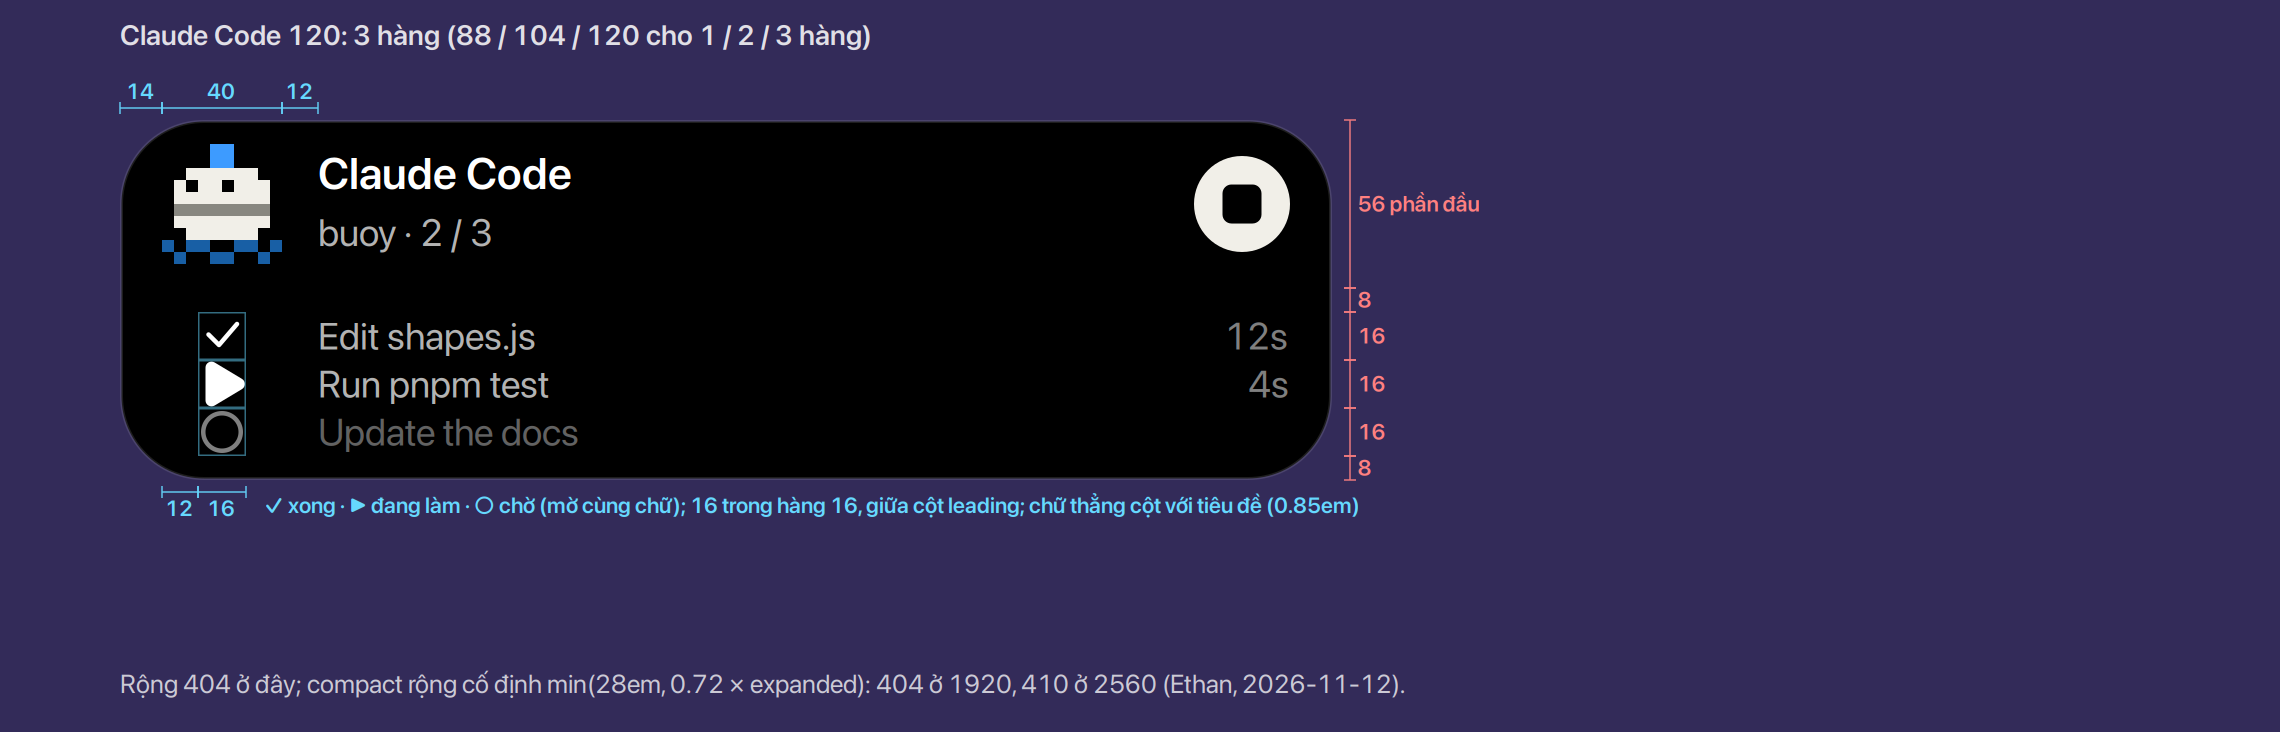
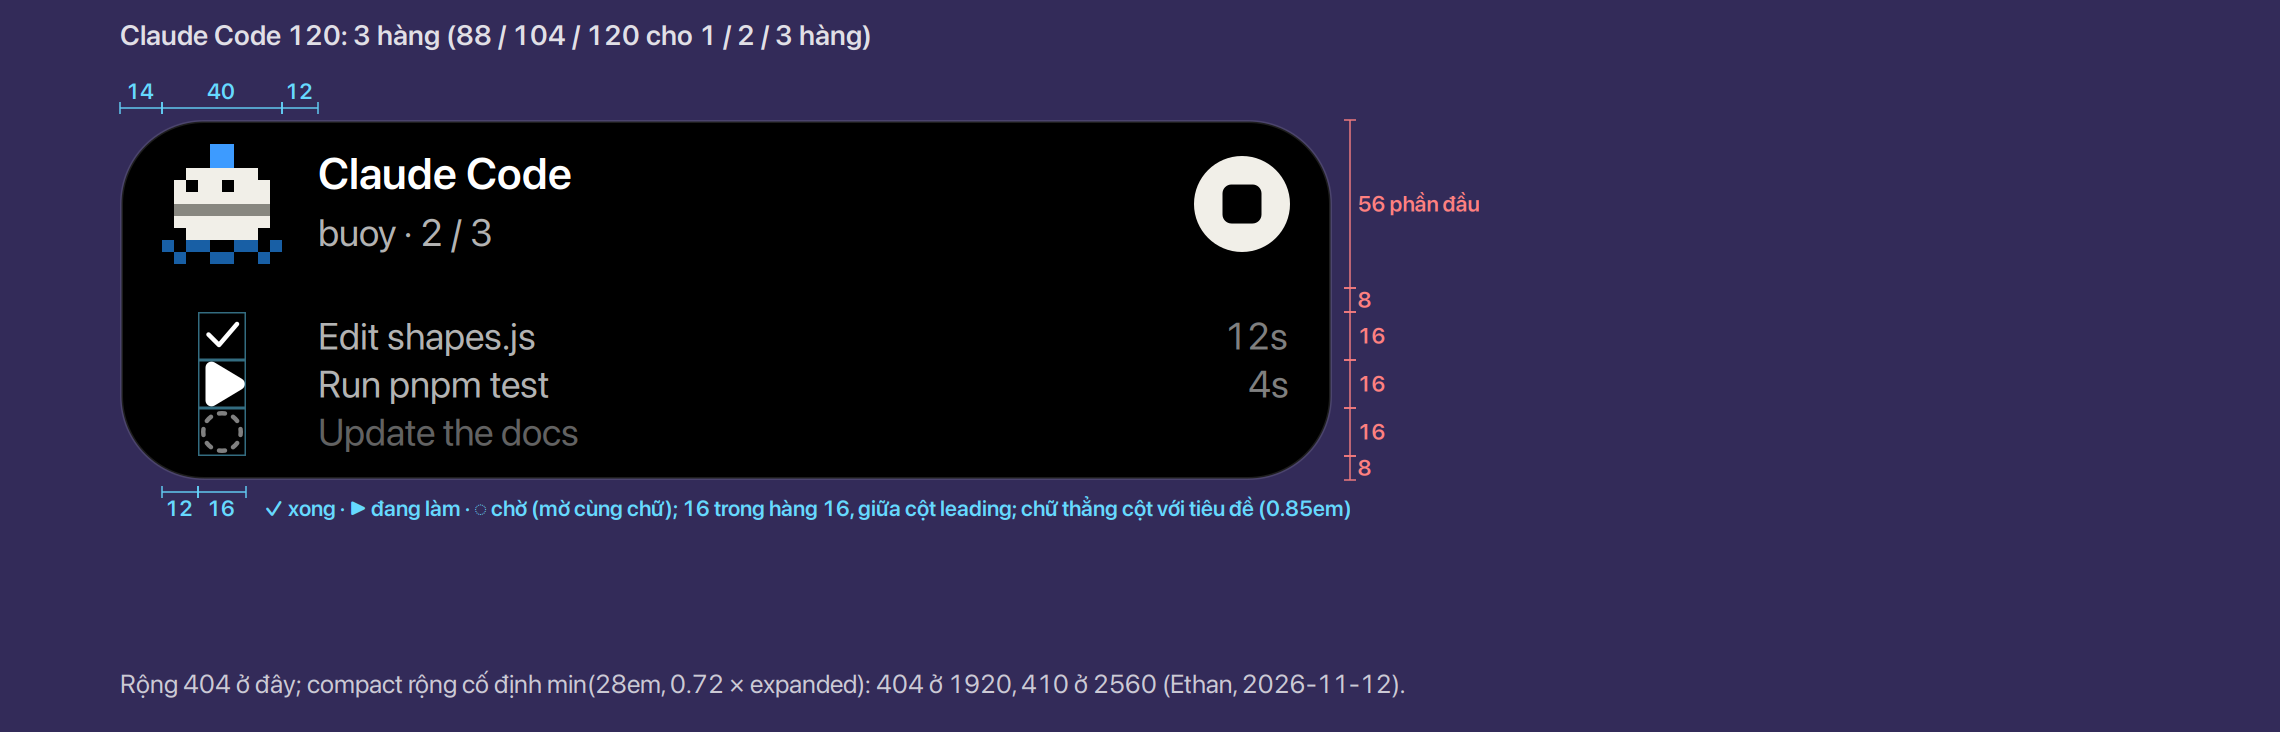
feat(agent): a task to do is Gravity's circle-dashed
Claude Code's pending task row shows Gravity UI's circle-dashed instead of circle
(Ethan, 2026-11-12); task-todo-symbolic.svg is redrawn from it, the design pages
(icons, compact) and the images that show the rows follow.

Refs: FEATURES.md M4 "Symbolic icons from Gravity UI"

Changed region(s): [[0.1246, 0.6612, 0.5917, 0.7213]]

diff --git a/docs/design/compact/render/anatomy-compact.js b/docs/design/compact/render/anatomy-compact.js
@@ -142,7 +142,7 @@ for (const it of ROWS) {
         });
         dim(x, lx, y - 4, '14'); dim(lx, lx + 40, y - 4, '40'); dim(lx + 40, tx, y - 4, '12');
         dim(lx, lx + 12, y + h + 4, '12', CY, true); dim(lx + 12, lx + 28, y + h + 4, '16', CY, true);
-        text('✓ xong · ▶ đang làm · ○ chờ (mờ cùng chữ); 16 trong hàng 16, giữa cột leading; chữ thẳng cột với tiêu đề (0.85em)', lx + 34, y + h + 4, 5.5, 600, CY);
+        text('✓ xong · ▶ đang làm · ◌ chờ (mờ cùng chữ); 16 trong hàng 16, giữa cột leading; chữ thẳng cột với tiêu đề (0.85em)', lx + 34, y + h + 4, 5.5, 600, CY);
         vdim(x + pw + 6, y, y + 56, '56 phần đầu');
         [[0, '8'], [8, '16'], [24, '16'], [40, '16'], [56, '8']].forEach(([o, t], k, all) => {
             const b = k + 1 < all.length ? all[k + 1][0] : 64;

diff --git a/docs/design/render/lib.js b/docs/design/render/lib.js
@@ -81,8 +81,8 @@ export function colourIcon(cr, name, x, y, s = 24) {
 }
 
 // A task's state in Claude Code's rows (design/compact, 2026-11-11): done `check`, doing
-// `play-fill`, to do `circle` dimmed (fg-subtle), white, s at (x, y).
-const TASK = {done: ['check', 1], doing: ['play-fill', 1], todo: ['circle', .5]};
+// `play-fill`, to do `circle-dashed` dimmed (fg-subtle), white, s at (x, y).
+const TASK = {done: ['check', 1], doing: ['play-fill', 1], todo: ['circle-dashed', .5]};
 export function taskState(cr, kind, x, y, s = 16) {
     const [name, a] = TASK[kind] ?? TASK.todo;
     icon(cr, name, x, y, s, [1, 1, 1], a);

diff --git a/src/buoy@murilegus/lib/modules/agent/adapter.js b/src/buoy@murilegus/lib/modules/agent/adapter.js
@@ -313,8 +313,8 @@ export function tasksFromFiles(files) {
     return tasks.sort((a, b) => n(a.id) - n(b.id) || a.id.localeCompare(b.id));
 }
 
-// done ✓, being done ▶, to do ○ (design/icons: Gravity UI's check, play-fill, circle; the
-// theme has no name for ○, task-todo is Buoy's)
+// done ✓, being done ▶, to do ◌ (design/icons: Gravity UI's check, play-fill, circle-dashed;
+// the theme has no name for ◌, task-todo is Buoy's)
 const TASK_ICON = {completed: 'object-select-symbolic', in_progress: 'media-playback-start-symbolic', pending: 'task-todo-symbolic'};
 
 /**

diff --git a/docs/design/icons/render/symbolic-map.js b/docs/design/icons/render/symbolic-map.js
@@ -54,7 +54,7 @@ export const SYMBOLIC = {
     'mail-unread': 'envelope',
     'weather-overcast': 'cloud',
     // Claude Code, the screen
-    'task-todo': 'circle',
+    'task-todo': 'circle-dashed',
     'mail-send': 'arrow-right',
     'media-record': 'video',
     'screen-shared': 'display-pulse',

diff --git a/docs/design/icons/index.vi.md b/docs/design/icons/index.vi.md
@@ -52,7 +52,7 @@ Icon buổi trong ngày và thời tiết: 19 SVG màu, một họ, `scripts/ico
   cho icon đó (`window-close`, `media-playback-pause`, `audio-volume-high`, `go-home`…), để thiếu
   file nào thì St tự dùng icon cùng tên của theme. Tên Gravity chỉ còn là nguồn hình trong
   `render/gravity-ui/`. Ý nào theme không có tên thì Buoy đặt tên riêng, không có icon dự phòng:
-  `notifications-unread` (bell-dot), `task-todo` (circle), `caps-lock`, `num-lock`, `fn-lock`.
+  `notifications-unread` (bell-dot), `task-todo` (circle-dashed), `caps-lock`, `num-lock`, `fn-lock`.
   **Chốt** (Ethan, 2026-11-12)
 - **Mọi icon symbolic Buoy vẽ** (tab, nút, hàng, HUD/OSD, media, lịch, tải về, đã chép) là hình
   Gravity hoặc Buoy tự vẽ, kể cả HUD và các nút trước đây lấy icon theme. Giữ của GNOME: `prefs.js`
@@ -74,7 +74,7 @@ Icon buổi trong ngày và thời tiết: 19 SVG màu, một họ, `scripts/ico
   | Tải về, mở thư mục, mở tệp, tệp chữ | `folder-download`, `folder-open`, `document-open`, `text-x-generic` | `arrow-down-to-line`, `folder-open`, `file`, `file-text` |
   | Đã chép, mật khẩu, ảnh, clipboard | `edit-copy`, `dialog-password`, `image-x-generic`, `edit-paste` | `copy`, `key`, `picture`, tự vẽ |
   | Bàn phím, thư (mẫu), thời tiết (dự phòng) | `input-keyboard`, `mail-unread`, `weather-overcast` | `keyboard`, `envelope`, `cloud` |
-  | Việc chờ, gửi, quay màn hình, chia sẻ màn hình | `task-todo`, `mail-send`, `media-record`, `screen-shared` | `circle`, `arrow-right`, `video`, `display-pulse` |
+  | Việc chờ, gửi, quay màn hình, chia sẻ màn hình | `task-todo`, `mail-send`, `media-record`, `screen-shared` | `circle-dashed`, `arrow-right`, `video`, `display-pulse` |
   | Âm lượng: tắt tiếng hoặc 0, ≤ 33 %, còn lại | `audio-volume-muted`, `-low`, `-medium` / `-high` / `-overamplified` | `volume-slash`, `volume-low`, `volume` |
   | Mic: tắt tiếng hoặc 0, mọi mức | `microphone-sensitivity-muted`, `-low` / `-medium` / `-high`, `audio-input-microphone` | `microphone-slash`, `microphone` |
   | Độ sáng màn hình, đèn bàn phím | `display-brightness`, `keyboard-brightness` | `sun`, tự vẽ |
@@ -84,6 +84,7 @@ Icon buổi trong ngày và thời tiết: 19 SVG màu, một họ, `scripts/ico
   | Bluetooth bật, tắt; máy bay bật, tắt | `bluetooth-active`, `bluetooth-disabled`; `airplane-mode`, `airplane-mode-disabled` | tự vẽ, tự vẽ; `plane`, tự vẽ |
   | Màn hình riêng tư bật, tắt; bảng vẽ | `screen-privacy`, `screen-privacy-disabled`; `input-tablet` | `eye-slash`, `eye`; `pencil` |
 
+- Việc chờ của Claude Code: `circle-dashed` của Gravity thay `circle`. **Chốt** (Ethan, 2026-11-12)
 - Âm lượng và mic ở mức 0 dùng icon tắt tiếng như Shell (`ui/status/volume.js` `getIcon`), dù gsd
   gửi `-low`. **Chốt** (Ethan, 2026-11-12)
 - HUD nói Bluetooth và chế độ máy bay bằng chữ của Buoy, như Caps Lock: "Bluetooth on / off",
